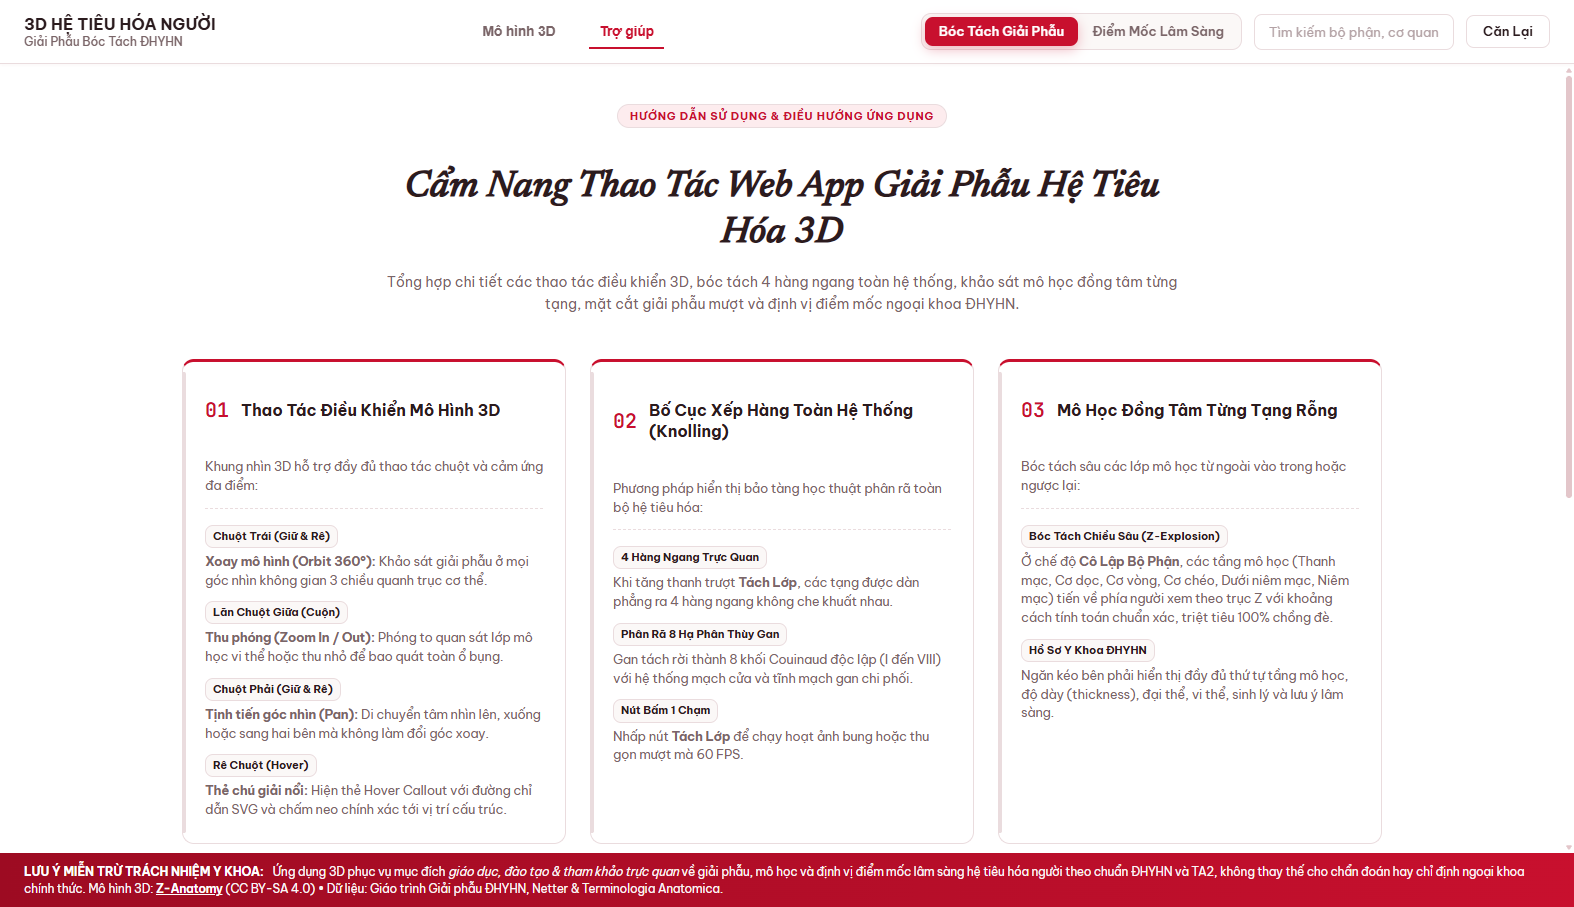
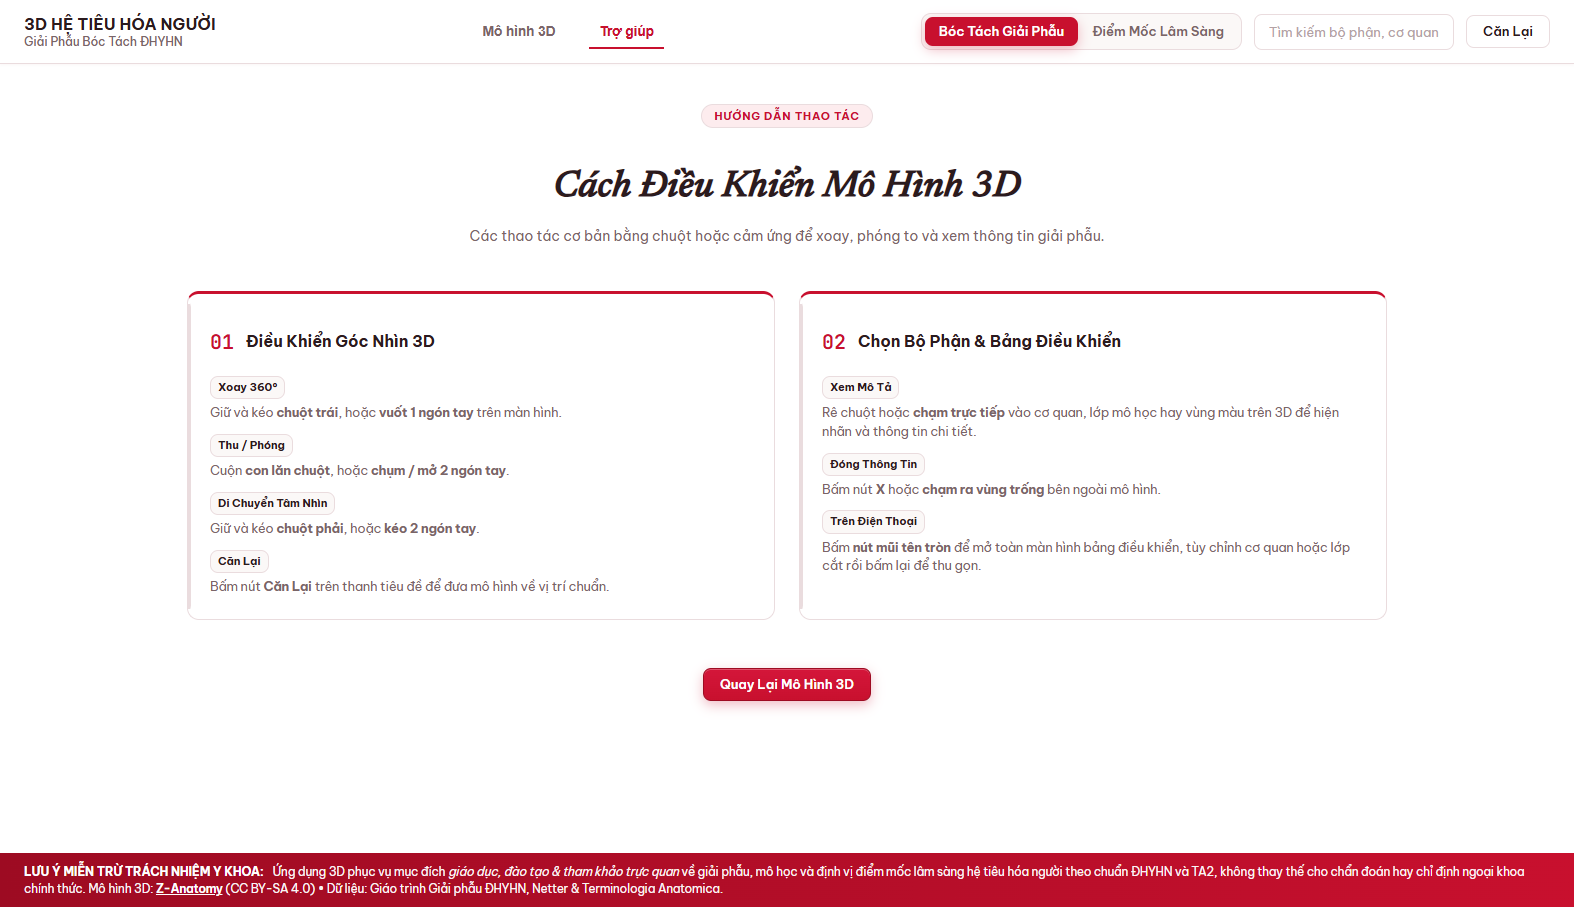
polish(mobile,help): red-white toggle button, keep panel open on select, concise help guide

diff --git a/index.html b/index.html
@@ -10,8 +10,8 @@
   <link rel="preconnect" href="https://fonts.gstatic.com" crossorigin>
   <link href="https://fonts.googleapis.com/css2?family=Be+Vietnam+Pro:wght@400;500;600;700&family=Newsreader:ital,wght@1,400;1,500&family=JetBrains+Mono:wght@400;600&display=swap" rel="stylesheet">
 
-  <link rel="stylesheet" href="./assets/css/theme.css?v=20261117_v35">
-  <link rel="stylesheet" href="./assets/css/layout-portrait.css?v=20261117_v35">
+  <link rel="stylesheet" href="./assets/css/theme.css?v=20261117_v36">
+  <link rel="stylesheet" href="./assets/css/layout-portrait.css?v=20261117_v36">
   <link rel="icon" href="data:,">
 
   <!-- ES Module Import Map (Three.js 100% Offline Local Bundle) -->
@@ -251,152 +251,65 @@
       </div>
     </main>
 
-    <!-- ===================== SECTION 2: TRỢ GIÚP (HELP & SƯ PHẠM ĐHYHN) ===================== -->
+    <!-- ===================== SECTION 2: TRỢ GIÚP (HƯỚNG DẪN THAO TÁC) ===================== -->
     <main class="help-section-layout hidden" id="section-help">
       <div class="help-container">
-        <!-- Header Banner -->
         <header class="help-header">
-          <span class="help-badge tag">HƯỚNG DẪN SỬ DỤNG &amp; ĐIỀU HƯỚNG ỨNG DỤNG</span>
-          <h1 class="help-title">Cẩm Nang Thao Tác Web App Giải Phẫu Hệ Tiêu Hóa 3D</h1>
+          <span class="help-badge tag">HƯỚNG DẪN THAO TÁC</span>
+          <h1 class="help-title">Cách Điều Khiển Mô Hình 3D</h1>
           <p class="help-subtitle">
-            Tổng hợp chi tiết các thao tác điều khiển 3D, bóc tách 4 hàng ngang toàn hệ thống, khảo sát mô học đồng tâm từng tạng, mặt cắt giải phẫu mượt và định vị điểm mốc ngoại khoa ĐHYHN.
+            Các thao tác cơ bản bằng chuột hoặc cảm ứng để xoay, phóng to và xem thông tin giải phẫu.
           </p>
         </header>
 
-        <!-- Grid of Help Guides (Cards 01 to 06) -->
         <div class="help-grid">
-          <!-- Card 1: Thao tác điều khiển Mô hình 3D -->
           <article class="help-card layer-card">
             <div class="help-card-header">
               <span class="help-step-number">01</span>
-              <h2 class="help-card-title">Thao Tác Điều Khiển Mô Hình 3D</h2>
+              <h2 class="help-card-title">Điều Khiển Góc Nhìn 3D</h2>
             </div>
-            <p class="help-card-desc">Khung nhìn 3D hỗ trợ đầy đủ thao tác chuột và cảm ứng đa điểm:</p>
             <ul class="help-feature-list">
               <li>
-                <div class="help-key-badge">Chuột Trái (Giữ &amp; Rê)</div>
-                <div class="help-feature-text"><strong>Xoay mô hình (Orbit 360°):</strong> Khảo sát giải phẫu ở mọi góc nhìn không gian 3 chiều quanh trục cơ thể.</div>
+                <div class="help-key-badge">Xoay 360°</div>
+                <div class="help-feature-text">Giữ và kéo <strong>chuột trái</strong>, hoặc <strong>vuốt 1 ngón tay</strong> trên màn hình.</div>
               </li>
               <li>
-                <div class="help-key-badge">Lăn Chuột Giữa (Cuộn)</div>
-                <div class="help-feature-text"><strong>Thu phóng (Zoom In / Out):</strong> Phóng to quan sát lớp mô học vi thể hoặc thu nhỏ để bao quát toàn ổ bụng.</div>
+                <div class="help-key-badge">Thu / Phóng</div>
+                <div class="help-feature-text">Cuộn <strong>con lăn chuột</strong>, hoặc <strong>chụm / mở 2 ngón tay</strong>.</div>
               </li>
               <li>
-                <div class="help-key-badge">Chuột Phải (Giữ &amp; Rê)</div>
-                <div class="help-feature-text"><strong>Tịnh tiến góc nhìn (Pan):</strong> Di chuyển tâm nhìn lên, xuống hoặc sang hai bên mà không làm đổi góc xoay.</div>
+                <div class="help-key-badge">Di Chuyển Tâm Nhìn</div>
+                <div class="help-feature-text">Giữ và kéo <strong>chuột phải</strong>, hoặc <strong>kéo 2 ngón tay</strong>.</div>
               </li>
               <li>
-                <div class="help-key-badge">Rê Chuột (Hover)</div>
-                <div class="help-feature-text"><strong>Thẻ chú giải nổi:</strong> Hiện thẻ Hover Callout với đường chỉ dẫn SVG và chấm neo chính xác tới vị trí cấu trúc.</div>
+                <div class="help-key-badge">Căn Lại</div>
+                <div class="help-feature-text">Bấm nút <strong>Căn Lại</strong> trên thanh tiêu đề để đưa mô hình về vị trí chuẩn.</div>
               </li>
             </ul>
           </article>
 
-          <!-- Card 2: Bố Cục Xếp Hàng Knolling -->
           <article class="help-card layer-card">
             <div class="help-card-header">
               <span class="help-step-number">02</span>
-              <h2 class="help-card-title">Bố Cục Xếp Hàng Toàn Hệ Thống (Knolling)</h2>
+              <h2 class="help-card-title">Chọn Bộ Phận &amp; Bảng Điều Khiển</h2>
             </div>
-            <p class="help-card-desc">Phương pháp hiển thị bảo tàng học thuật phân rã toàn bộ hệ tiêu hóa:</p>
             <ul class="help-feature-list">
               <li>
-                <div class="help-key-badge">4 Hàng Ngang Trực Quan</div>
-                <div class="help-feature-text">Khi tăng thanh trượt <strong>Tách Lớp</strong>, các tạng được dàn phẳng ra 4 hàng ngang không che khuất nhau.</div>
+                <div class="help-key-badge">Xem Mô Tả</div>
+                <div class="help-feature-text">Rê chuột hoặc <strong>chạm trực tiếp</strong> vào cơ quan, lớp mô học hay vùng màu trên 3D để hiện nhãn và thông tin chi tiết.</div>
               </li>
               <li>
-                <div class="help-key-badge">Phân Rã 8 Hạ Phân Thùy Gan</div>
-                <div class="help-feature-text">Gan tách rời thành 8 khối Couinaud độc lập (I đến VIII) với hệ thống mạch cửa và tĩnh mạch gan chi phối.</div>
+                <div class="help-key-badge">Đóng Thông Tin</div>
+                <div class="help-feature-text">Bấm nút <strong>X</strong> hoặc <strong>chạm ra vùng trống</strong> bên ngoài mô hình.</div>
               </li>
               <li>
-                <div class="help-key-badge">Nút Bấm 1 Chạm</div>
-                <div class="help-feature-text">Nhấp nút <strong>Tách Lớp</strong> để chạy hoạt ảnh bung hoặc thu gọn mượt mà 60 FPS.</div>
-              </li>
-            </ul>
-          </article>
-
-          <!-- Card 3: Khảo sát Mô Học Đồng Tâm Từng Tạng -->
-          <article class="help-card layer-card">
-            <div class="help-card-header">
-              <span class="help-step-number">03</span>
-              <h2 class="help-card-title">Mô Học Đồng Tâm Từng Tạng Rỗng</h2>
-            </div>
-            <p class="help-card-desc">Bóc tách sâu các lớp mô học từ ngoài vào trong hoặc ngược lại:</p>
-            <ul class="help-feature-list">
-              <li>
-                <div class="help-key-badge">Bóc Tách Chiều Sâu (Z-Explosion)</div>
-                <div class="help-feature-text">Ở chế độ <strong>Cô Lập Bộ Phận</strong>, các tầng mô học (Thanh mạc, Cơ dọc, Cơ vòng, Cơ chéo, Dưới niêm mạc, Niêm mạc) tiến về phía người xem theo trục Z với khoảng cách tính toán chuẩn xác, triệt tiêu 100% chồng đè.</div>
-              </li>
-              <li>
-                <div class="help-key-badge">Hồ Sơ Y Khoa ĐHYHN</div>
-                <div class="help-feature-text">Ngăn kéo bên phải hiển thị đầy đủ thứ tự tầng mô học, độ dày (thickness), đại thể, vi thể, sinh lý và lưu ý lâm sàng.</div>
-              </li>
-            </ul>
-          </article>
-
-          <!-- Card 4: Mặt Cắt Dọc 50% Theo Điểm Mốc -->
-          <article class="help-card layer-card">
-            <div class="help-card-header">
-              <span class="help-step-number">04</span>
-              <h2 class="help-card-title">Mặt Cắt Giải Phẫu Dọc 50% (Smooth Cutaway)</h2>
-            </div>
-            <p class="help-card-desc">Quan sát lòng ống tiêu hóa và bề dày thành mô học:</p>
-            <ul class="help-feature-list">
-              <li>
-                <div class="help-key-badge">Mặt Cắt Mở Lòng Ống</div>
-                <div class="help-feature-text">Bấm nút <strong>Mặt Cắt Dọc 50%</strong> để cắt mở nửa trước dạ dày, thực quản, tá tràng hoặc đại tràng.</div>
-              </li>
-              <li>
-                <div class="help-key-badge">Nếp Gấp Rugae &amp; Villi</div>
-                <div class="help-feature-text">Chiêm ngưỡng nếp niêm mạc Rugae dạ dày, nhung mao Villi ruột non và các nếp bán nguyệt đại tràng sắc nét.</div>
-              </li>
-            </ul>
-          </article>
-
-          <!-- Card 5: Bản Đồ Nhiệt Phân Vùng Chức Năng Bậc Rời Rạc -->
-          <article class="help-card layer-card">
-            <div class="help-card-header">
-              <span class="help-step-number">05</span>
-              <h2 class="help-card-title">Bản Đồ Nhiệt Phân Vùng Chức Năng (Heatmap)</h2>
-            </div>
-            <p class="help-card-desc">Phân định ranh giới sinh lý học thuật rõ ràng theo chuẩn ĐHYHN:</p>
-            <ul class="help-feature-list">
-              <li>
-                <div class="help-key-badge">Màu Bậc Rời Rạc (Solid Step Color)</div>
-                <div class="help-feature-text">Gạt công tắc sang <strong>Phân Vùng</strong>: mỗi phân đoạn giải phẫu được tô duy nhất một màu đơn sắc pastel với biên giới sắc nét, không lem màu gradient.</div>
-              </li>
-              <li>
-                <div class="help-key-badge">Đồng Bộ Màu Thẻ Chú Giải</div>
-                <div class="help-feature-text">Màu sắc trên bề mặt 3D trùng khớp 100% với chấm màu trên thẻ Hover Callout.</div>
-              </li>
-            </ul>
-          </article>
-
-          <!-- Card 6: Điểm Mốc Lâm Sàng & Khám Bề Mặt Thành Bụng -->
-          <article class="help-card layer-card">
-            <div class="help-card-header">
-              <span class="help-step-number">06</span>
-              <h2 class="help-card-title">Điểm Mốc Ngoại Khoa &amp; Khám Bề Mặt Thân Mình</h2>
-            </div>
-            <p class="help-card-desc">Liên hệ thực tế giữa giải phẫu chiều sâu và thăm khám thành bụng:</p>
-            <ul class="help-feature-list">
-              <li>
-                <div class="help-key-badge">Chuyển Chế Độ Lâm Sàng</div>
-                <div class="help-feature-text">Chọn nút <strong>Điểm Mốc Lâm Sàng</strong> trên thanh tiêu đề: hiển thị khung da thân mình 3D và các điểm mốc chẩn đoán (Murphy, McBurney, Trung Quản, Điểm đau Tụy Mayo-Robson...).</div>
-              </li>
-              <li>
-                <div class="help-key-badge">Thanh Trượt Độ Mờ Da Thân Mình</div>
-                <div class="help-feature-text">Kéo thanh trượt từ 0% (ẩn da), 50% (bán thấu đối chiếu tạng) tới 100% (khám da bề mặt).</div>
-              </li>
-              <li>
-                <div class="help-key-badge">Quan Sát Mặt Trước / Mặt Sau</div>
-                <div class="help-feature-text">Bấm nút <strong>Mặt Trước</strong> hoặc <strong>Mặt Sau</strong> để chuyển đổi nhanh góc nhìn khám thành bụng hoặc vùng thắt lưng mạn sườn.</div>
+                <div class="help-key-badge">Trên Điện Thoại</div>
+                <div class="help-feature-text">Bấm <strong>nút mũi tên tròn</strong> để mở toàn màn hình bảng điều khiển, tùy chỉnh cơ quan hoặc lớp cắt rồi bấm lại để thu gọn.</div>
               </li>
             </ul>
           </article>
         </div>
 
-        <!-- Quick Action Navigation Bar at Bottom of Help -->
         <div class="help-footer-actions">
           <button type="button" class="btn btn-primary help-btn-action" id="btn-help-go-3d">Quay Lại Mô Hình 3D</button>
         </div>
@@ -416,6 +329,6 @@
   </div>
 
   <!-- SCRIPT BOOTSTRAP -->
-  <script type="module" src="./app.js?v=20261117_v35"></script>
+  <script type="module" src="./app.js?v=20261117_v36"></script>
 </body>
 </html>

diff --git a/views/UIView.js b/views/UIView.js
@@ -1,4 +1,4 @@
-import { getOrganHeatmapRegions } from '../data/heatmapCatalog.js?v=20261117_v35';
+import { getOrganHeatmapRegions } from '../data/heatmapCatalog.js?v=20261117_v36';
 
 /**
  * UIView.js
@@ -487,11 +487,7 @@ export class UIView {
             this.explodeHelperText.textContent = 'Tách rời các cấu trúc con để rê chuột xem nhãn giải phẫu chi tiết';
           }
 
-          if (document.body.classList.contains('layout-portrait')) {
-            // In Portrait mode, selecting via Body Map/Search collapses the panel to reveal full 3D organ;
-            // tapping directly on the 3D organ drops the red dot and opens the 1/3 single-item popup.
-            this._setPortraitView('canvas');
-          } else {
+          if (!document.body.classList.contains('layout-portrait')) {
             this._showOrganDrawer(organ);
           }
         }
@@ -503,9 +499,6 @@ export class UIView {
         this.explodeModeLabel.textContent = 'Xếp Hàng Toàn Hệ Thống:';
         this.explodeHelperText.textContent = 'Kéo thanh trượt hoặc bấm nút để xếp toàn bộ cơ quan & lớp mô học theo 4 hàng ngang';
         this._hideOrganDrawer();
-        if (document.body.classList.contains('layout-portrait')) {
-          this._setPortraitView('canvas');
-        }
       }
     });
 

diff --git a/views/SceneView.js b/views/SceneView.js
@@ -1,12 +1,12 @@
 import * as THREE from 'three';
 import { OrbitControls } from 'three/addons/controls/OrbitControls.js';
 import { GLTFLoader } from 'three/addons/loaders/GLTFLoader.js';
-import { ProceduralTextures } from './modules/ProceduralTextures.js?v=20261117_v35';
-import { StomachLayersBuilder } from './modules/StomachLayersBuilder.js?v=20261117_v35';
-import { ExplosionManager } from './modules/ExplosionManager.js?v=20261117_v35';
-import { HoverCalloutView } from './modules/HoverCalloutView.js?v=20261117_v35';
-import { LiverLigamentsBuilder } from './modules/LiverLigamentsBuilder.js?v=20261117_v35';
-import { HEATMAP_CATALOG, getThermalPalette, sampleContinuousThermalColor } from '../data/heatmapCatalog.js?v=20261117_v35';
+import { ProceduralTextures } from './modules/ProceduralTextures.js?v=20261117_v36';
+import { StomachLayersBuilder } from './modules/StomachLayersBuilder.js?v=20261117_v36';
+import { ExplosionManager } from './modules/ExplosionManager.js?v=20261117_v36';
+import { HoverCalloutView } from './modules/HoverCalloutView.js?v=20261117_v36';
+import { LiverLigamentsBuilder } from './modules/LiverLigamentsBuilder.js?v=20261117_v36';
+import { HEATMAP_CATALOG, getThermalPalette, sampleContinuousThermalColor } from '../data/heatmapCatalog.js?v=20261117_v36';
 
 /**
  * SceneView.js

diff --git a/assets/css/layout-portrait.css b/assets/css/layout-portrait.css
@@ -109,7 +109,7 @@
     display: none;
   }
 
-  /* 3. Circular Double-Chevron Panel Toggle Button */
+  /* 3. Circular Double-Chevron Panel Toggle Button (Red-White Theme) */
   .portrait-panel-toggle {
     position: absolute;
     bottom: 14px;
@@ -118,15 +118,15 @@
     width: 48px;
     height: 48px;
     border-radius: 50%;
-    border: 0;
-    background: #1f1c1d;
-    color: #ffffff;
+    border: 2px solid var(--white);
+    background: var(--red);
+    color: var(--white);
     display: inline-flex;
     align-items: center;
     justify-content: center;
     cursor: pointer;
-    box-shadow: 0 6px 18px rgba(0, 0, 0, 0.28);
-    transition: transform 0.2s var(--ease), background 0.2s var(--ease), top 0.2s, bottom 0.2s;
+    box-shadow: 0 6px 18px var(--red-glow);
+    transition: transform 0.2s var(--ease), background 0.2s var(--ease), color 0.2s var(--ease), top 0.2s, bottom 0.2s;
   }
 
   .portrait-panel-toggle:active {

diff --git a/app.js b/app.js
@@ -1,9 +1,9 @@
 import * as THREE from 'three';
 window.THREE = THREE;
 
-import { AppViewModel } from './viewmodels/AppViewModel.js?v=20261117_v35';
-import { SceneView } from './views/SceneView.js?v=20261117_v35';
-import { UIView } from './views/UIView.js?v=20261117_v35';
+import { AppViewModel } from './viewmodels/AppViewModel.js?v=20261117_v36';
+import { SceneView } from './views/SceneView.js?v=20261117_v36';
+import { UIView } from './views/UIView.js?v=20261117_v36';
 
 /**
  * app.js

diff --git a/scripts/verify_lumen_template.py b/scripts/verify_lumen_template.py
@@ -334,18 +334,25 @@ async def main():
             print("Mobile portrait single-layer popup check:", portrait_info.get("result", {}).get("value"), flush=True)
             await save_shot(SHOT_MOB_PORTRAIT)
 
-            # Shot 9: Mobile Portrait — Tap Circular Double-Chevron Button -> Fullscreen Control Panel
+            # Shot 9: Mobile Portrait — Tap Circular Double-Chevron Button -> Fullscreen Control Panel + verify selecting organ keeps panel open
             await send_cmd("Runtime.evaluate", {
-                "expression": "document.getElementById('portrait-panel-toggle').click();"
+                "expression": """(() => {
+                    document.getElementById('portrait-panel-toggle').click();
+                    document.querySelector('.body-pin[data-organ="liver"]').click();
+                })()"""
             })
             await asyncio.sleep(0.8)
             panel_full_info = await send_cmd("Runtime.evaluate", {
                 "expression": """(() => {
                     const dock = document.getElementById('dissection-dock').getBoundingClientRect();
+                    const toggleBg = getComputedStyle(document.getElementById('portrait-panel-toggle')).backgroundColor;
+                    const viewAfterSelect = document.body.dataset.portraitView;
+                    document.querySelector('.body-pin[data-organ="stomach"]').click();
                     return JSON.stringify({
-                        portraitView: document.body.dataset.portraitView,
+                        portraitView: viewAfterSelect,
                         dockW: Math.round(dock.width),
-                        dockH: Math.round(dock.height)
+                        dockH: Math.round(dock.height),
+                        toggleBg
                     });
                 })()"""
             })
